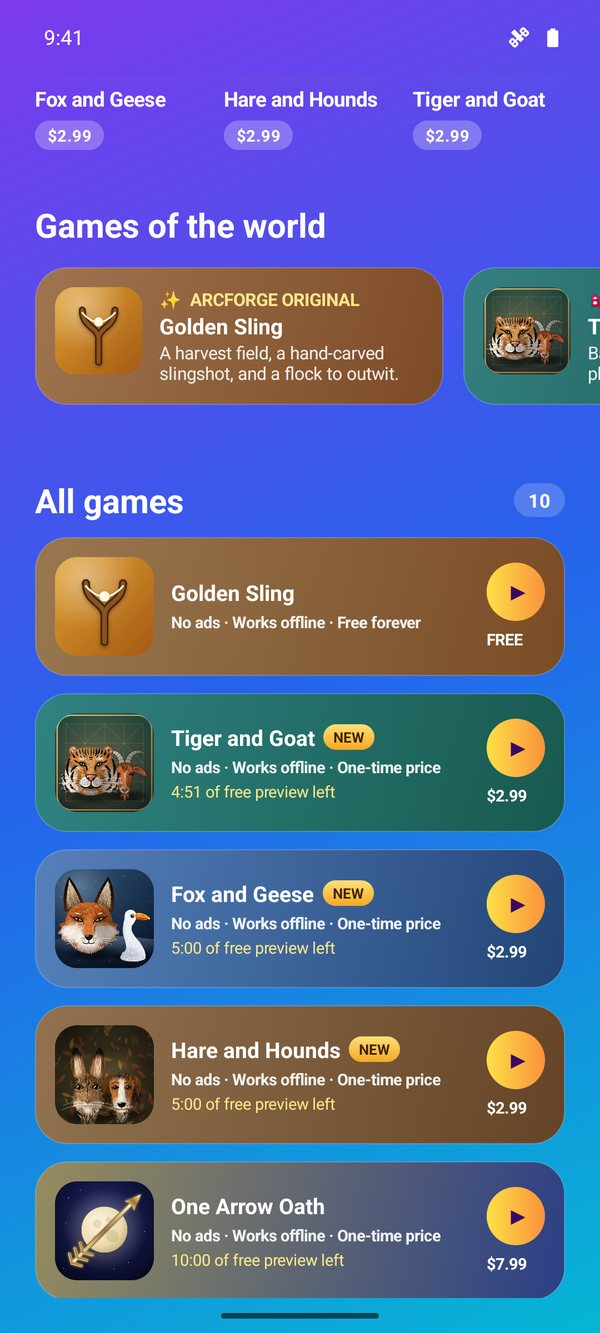
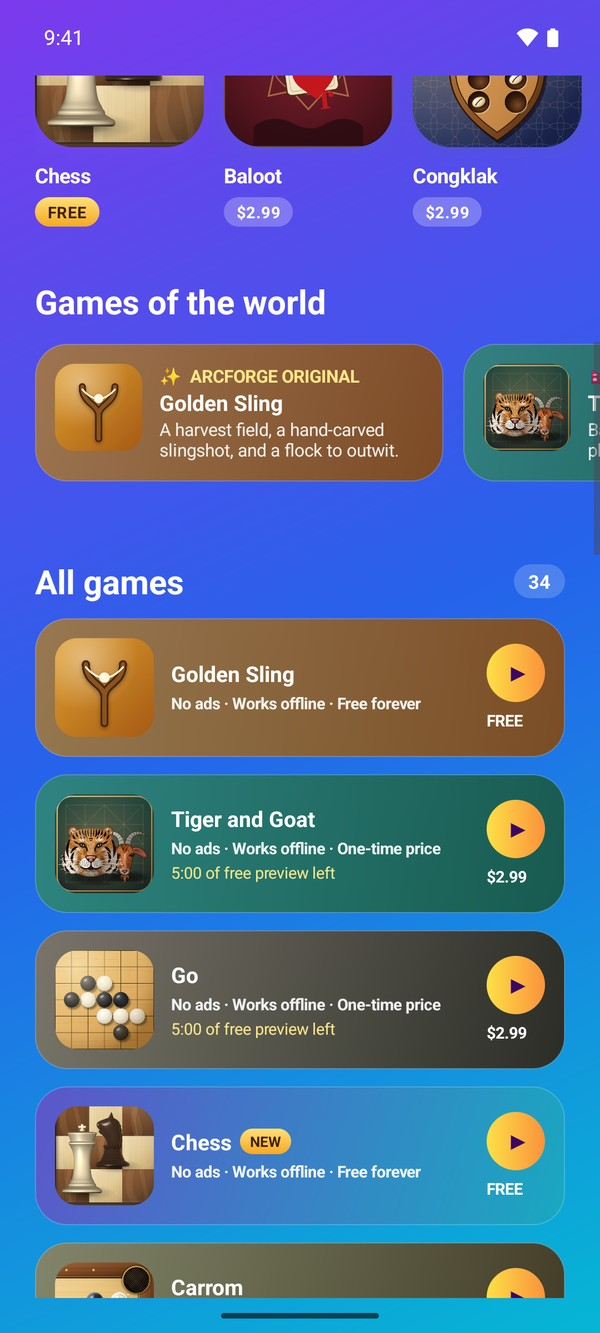
site: refresh marketing screenshots for the current 34-game catalog
The hero, 'Three ways to browse' and 'Only in Arcforge' screenshots
were captured back when the app had far fewer games (old category
names, 3 games per shelf) and predated the current Featured order
(Golden Sling, Tiger and Goat, Go, Chess, Carrom). Recaptured all 9
in-use screenshots fresh from the current build:
- Android (emulator, Demo Mode for a clean status bar, debug-only
  Developer-mode banner cropped out): icons, list, live (spotlight),
  live-2 (Continue playing/Today), live-3 (Games of the world/All
  games with honest labels), about (Tiger and Goat's story page).
- iOS (Simulator, status_bar override, deep-linked straight to each
  tab via the arcforge.menuView UserDefaults key to sidestep this
  environment's unreliable simulator mouse-click automation): icons,
  list, live.
Also corrected the hardcoded '32 games' stat to the real current
count (34) and updated each <img>'s height attribute to match its
new aspect ratio. Old screenshots kept for reference, never linked
from the page: assets/img/archive/2026-09-23-pre-34-game-catalog/.

diff --git a/index.html b/index.html
@@ -59,7 +59,7 @@
           <a href="#views" class="btn btn-ghost">See the app →</a>
         </div>
         <ul class="hero-points">
-          <li><strong>32</strong> games</li><li><strong>0</strong> ads</li><li><strong>100%</strong> offline</li><li><strong>1</strong> free game, forever</li>
+          <li><strong>34</strong> games</li><li><strong>0</strong> ads</li><li><strong>100%</strong> offline</li><li><strong>1</strong> free game, forever</li>
         </ul>
         <div class="store-badges">
           <span class="store-badge">App Store <em>In review</em></span>
@@ -67,9 +67,9 @@
         </div>
       </div>
       <div class="hero-phones" aria-hidden="true">
-        <figure class="phone p-left"><img src="assets/img/app/android-icons.jpg" alt="" width="600" height="1304" loading="lazy"></figure>
-        <figure class="phone p-center"><img src="assets/img/app/ios-live.jpg" alt="" width="600" height="1304" loading="lazy"></figure>
-        <figure class="phone p-right"><img src="assets/img/app/ios-list.jpg" alt="" width="600" height="1304" loading="lazy"></figure>
+        <figure class="phone p-left"><img src="assets/img/app/android-icons.jpg" alt="" width="600" height="1219" loading="lazy"></figure>
+        <figure class="phone p-center"><img src="assets/img/app/ios-live.jpg" alt="" width="600" height="1162" loading="lazy"></figure>
+        <figure class="phone p-right"><img src="assets/img/app/ios-list.jpg" alt="" width="600" height="1162" loading="lazy"></figure>
       </div>
     </div>
   </section>
@@ -85,17 +85,17 @@
       </div>
       <div class="views-grid">
         <div class="view-card">
-          <figure class="phone"><img data-view="icons" src="assets/img/app/ios-icons.jpg" alt="Arcforge Icons view" width="600" height="1304" loading="lazy"></figure>
+          <figure class="phone"><img data-view="icons" src="assets/img/app/ios-icons.jpg" alt="Arcforge Icons view" width="600" height="1162" loading="lazy"></figure>
           <h3>Icons</h3>
           <p>A featured carousel, shelves by category and a grid of every game — browse like a store shelf, with each game glowing in its own colour.</p>
         </div>
         <div class="view-card is-featured">
-          <figure class="phone"><img data-view="live" src="assets/img/app/ios-live.jpg" alt="Arcforge Live view" width="600" height="1304" loading="lazy"></figure>
+          <figure class="phone"><img data-view="live" src="assets/img/app/ios-live.jpg" alt="Arcforge Live view" width="600" height="1162" loading="lazy"></figure>
           <h3>Live <span class="pill-new">New</span></h3>
           <p>The real game plays itself right in the menu. See what you were playing, today's daily challenges, and search everything. Tap <em>Play now</em> and you're in.</p>
         </div>
         <div class="view-card">
-          <figure class="phone"><img data-view="list" src="assets/img/app/ios-list.jpg" alt="Arcforge List view" width="600" height="1304" loading="lazy"></figure>
+          <figure class="phone"><img data-view="list" src="assets/img/app/ios-list.jpg" alt="Arcforge List view" width="600" height="1162" loading="lazy"></figure>
           <h3>List</h3>
           <p>Big, calm, colour-coded rows. One tap to a game's page, one more to play. Nothing else on screen.</p>
         </div>
@@ -108,10 +108,10 @@
       <p class="eyebrow center">Only in Arcforge</p>
       <h2 class="section-title center">Things an app store can't show you</h2>
       <div class="only-grid">
-        <div class="only-card"><figure class="phone "><img src="assets/img/app/android-live.jpg" alt="Live gameplay in the menu" width="600" height="1304" loading="lazy"></figure><div><h3>Live gameplay, not a trailer</h3><p>The spotlight runs the actual game, muted, right inside the menu. What you see is exactly what you get.</p></div></div>
-        <div class="only-card"><figure class="phone "><img src="assets/img/app/android-live-2.jpg" alt="Continue playing and today&#x27;s dailies" width="600" height="1304" loading="lazy"></figure><div><h3>Pick up where you left off</h3><p>Your real progress on every game, today's daily puzzles with your streaks, and the newest games — all on one screen.</p></div></div>
-        <div class="only-card"><figure class="phone "><img src="assets/img/app/android-live-3.jpg" alt="Honest labels on every game" width="600" height="1304" loading="lazy"></figure><div><h3>Honest labels</h3><p>No ads. Works offline. One-time price. How much free preview you have left. Stated plainly on every game, before you tap.</p></div></div>
-        <div class="only-card"><figure class="phone "><img src="assets/img/app/android-about.jpg" alt="A game&#x27;s page with live gameplay" width="600" height="1304" loading="lazy"></figure><div><h3>Games with a story</h3><p>Tiger and Goat from Nepal, Fox and Geese from medieval Europe, Hare and Hounds from France — every game page tells you where it comes from and teaches you to play.</p></div></div>
+        <div class="only-card"><figure class="phone "><img src="assets/img/app/android-live.jpg" alt="Live gameplay in the menu" width="600" height="1219" loading="lazy"></figure><div><h3>Live gameplay, not a trailer</h3><p>The spotlight runs the actual game, muted, right inside the menu. What you see is exactly what you get.</p></div></div>
+        <div class="only-card"><figure class="phone "><img src="assets/img/app/android-live-2.jpg" alt="Continue playing and today&#x27;s dailies" width="600" height="1333" loading="lazy"></figure><div><h3>Pick up where you left off</h3><p>Your real progress on every game, today's daily puzzles with your streaks, and the newest games — all on one screen.</p></div></div>
+        <div class="only-card"><figure class="phone "><img src="assets/img/app/android-live-3.jpg" alt="Honest labels on every game" width="600" height="1333" loading="lazy"></figure><div><h3>Honest labels</h3><p>No ads. Works offline. One-time price. How much free preview you have left. Stated plainly on every game, before you tap.</p></div></div>
+        <div class="only-card"><figure class="phone "><img src="assets/img/app/android-about.jpg" alt="A game&#x27;s page with live gameplay" width="600" height="1333" loading="lazy"></figure><div><h3>Games with a story</h3><p>Tiger and Goat from Nepal, Fox and Geese from medieval Europe, Hare and Hounds from France — every game page tells you where it comes from and teaches you to play.</p></div></div>
       </div>
     </div>
   </section>

diff --git a/assets/img/archive/2026-09-23-pre-34-game-catalog/README.md b/assets/img/archive/2026-09-23-pre-34-game-catalog/README.md
@@ -1,0 +1,9 @@
+# Archived marketing screenshots — pre 34-game catalog
+
+Backup of `assets/img/app/*.jpg` as they were before 2026-09-23, when they were replaced with
+fresh screenshots. These were taken back when the app had far fewer games (old "Board game
+classics"/"Action & adventure" category names, only 3 games per shelf) and predate the current
+Featured order (Golden Sling, Tiger and Goat, Go, Chess, Carrom) and the current 8-category system
+(`docs/GAME-CATEGORIES.md` in the games repo).
+
+Kept for reference / rollback only — nothing in `index.html` links here.
